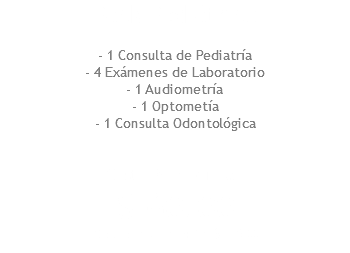
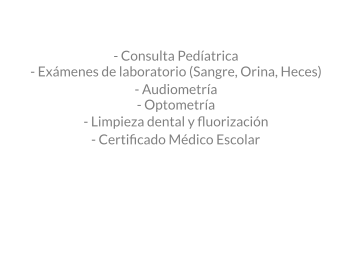
Cambio imagen pomocion pediatria

Changed region(s): [[0.0857, 0.1937, 0.9143, 0.581]]

diff --git a/promociones.html b/promociones.html
@@ -181,7 +181,7 @@ src="https://www.facebook.com/tr?id=753515798081896&ev=PageView&noscript=1"
       <!-- m_editable region-id="editable-static-tag-U1732" template="promociones.html" data-type="html" data-ice-options="clickable" data-ice-editable="link" -->
       <a class="nonblock nontext grpelem" id="u1732" href="contacto.html" data-href="page:U129" data-muse-uid="U1732"><!-- simple frame --></a>
       <!-- /m_editable -->
-      <a class="nonblock nontext grpelem" id="u1731-23" href="contacto.html" data-href="page:U129"><!-- rasterized frame --><img id="u1731-23_img" alt="Pack Pediátrico - 1 Consulta de Pediatría - 4 Exámenes de Laboratorio - 1 Audiometría - 1 Optometía - 1 Consulta Odontológica Costo Promocional: $ 60.00 Costo sin promoción: $ 116.00 " src="images/u1731-23.png" data-image-width="350"/></a>
+      <a class="nonblock nontext grpelem" id="u1731-23" href="contacto.html" data-href="page:U129"><!-- rasterized frame --><img id="u1731-23_img" alt="Pack Pediátrico - 1 Consulta de Pediatría - 4 Exámenes de Laboratorio (Sangre Orina y Heces) - 1 Audiometría - 1 Optometía - 1 Limpieza dental y fluorizacion, 1 certificado medico escolar Costo Promocional: $ 70.00 Costo sin promoción: $ 116.00 " src="images/u1731-23.png" data-image-width="350"/></a>
       <!-- m_editable region-id="editable-static-tag-U1760-BP_infinity" template="promociones.html" data-type="image" data-ice-options="clickable" data-ice-editable="link" -->
       <a class="nonblock nontext clip_frame grpelem" id="u1760" href="contacto.html" data-href="page:U129" data-muse-uid="U1760" data-muse-type="img_frame"><!-- image --><img class="block" id="u1760_img" src="images/promo05.jpg" alt="" data-muse-src="images/promo05.jpg" data-image-width="350" data-image-height="100"/></a>
       <!-- /m_editable -->
